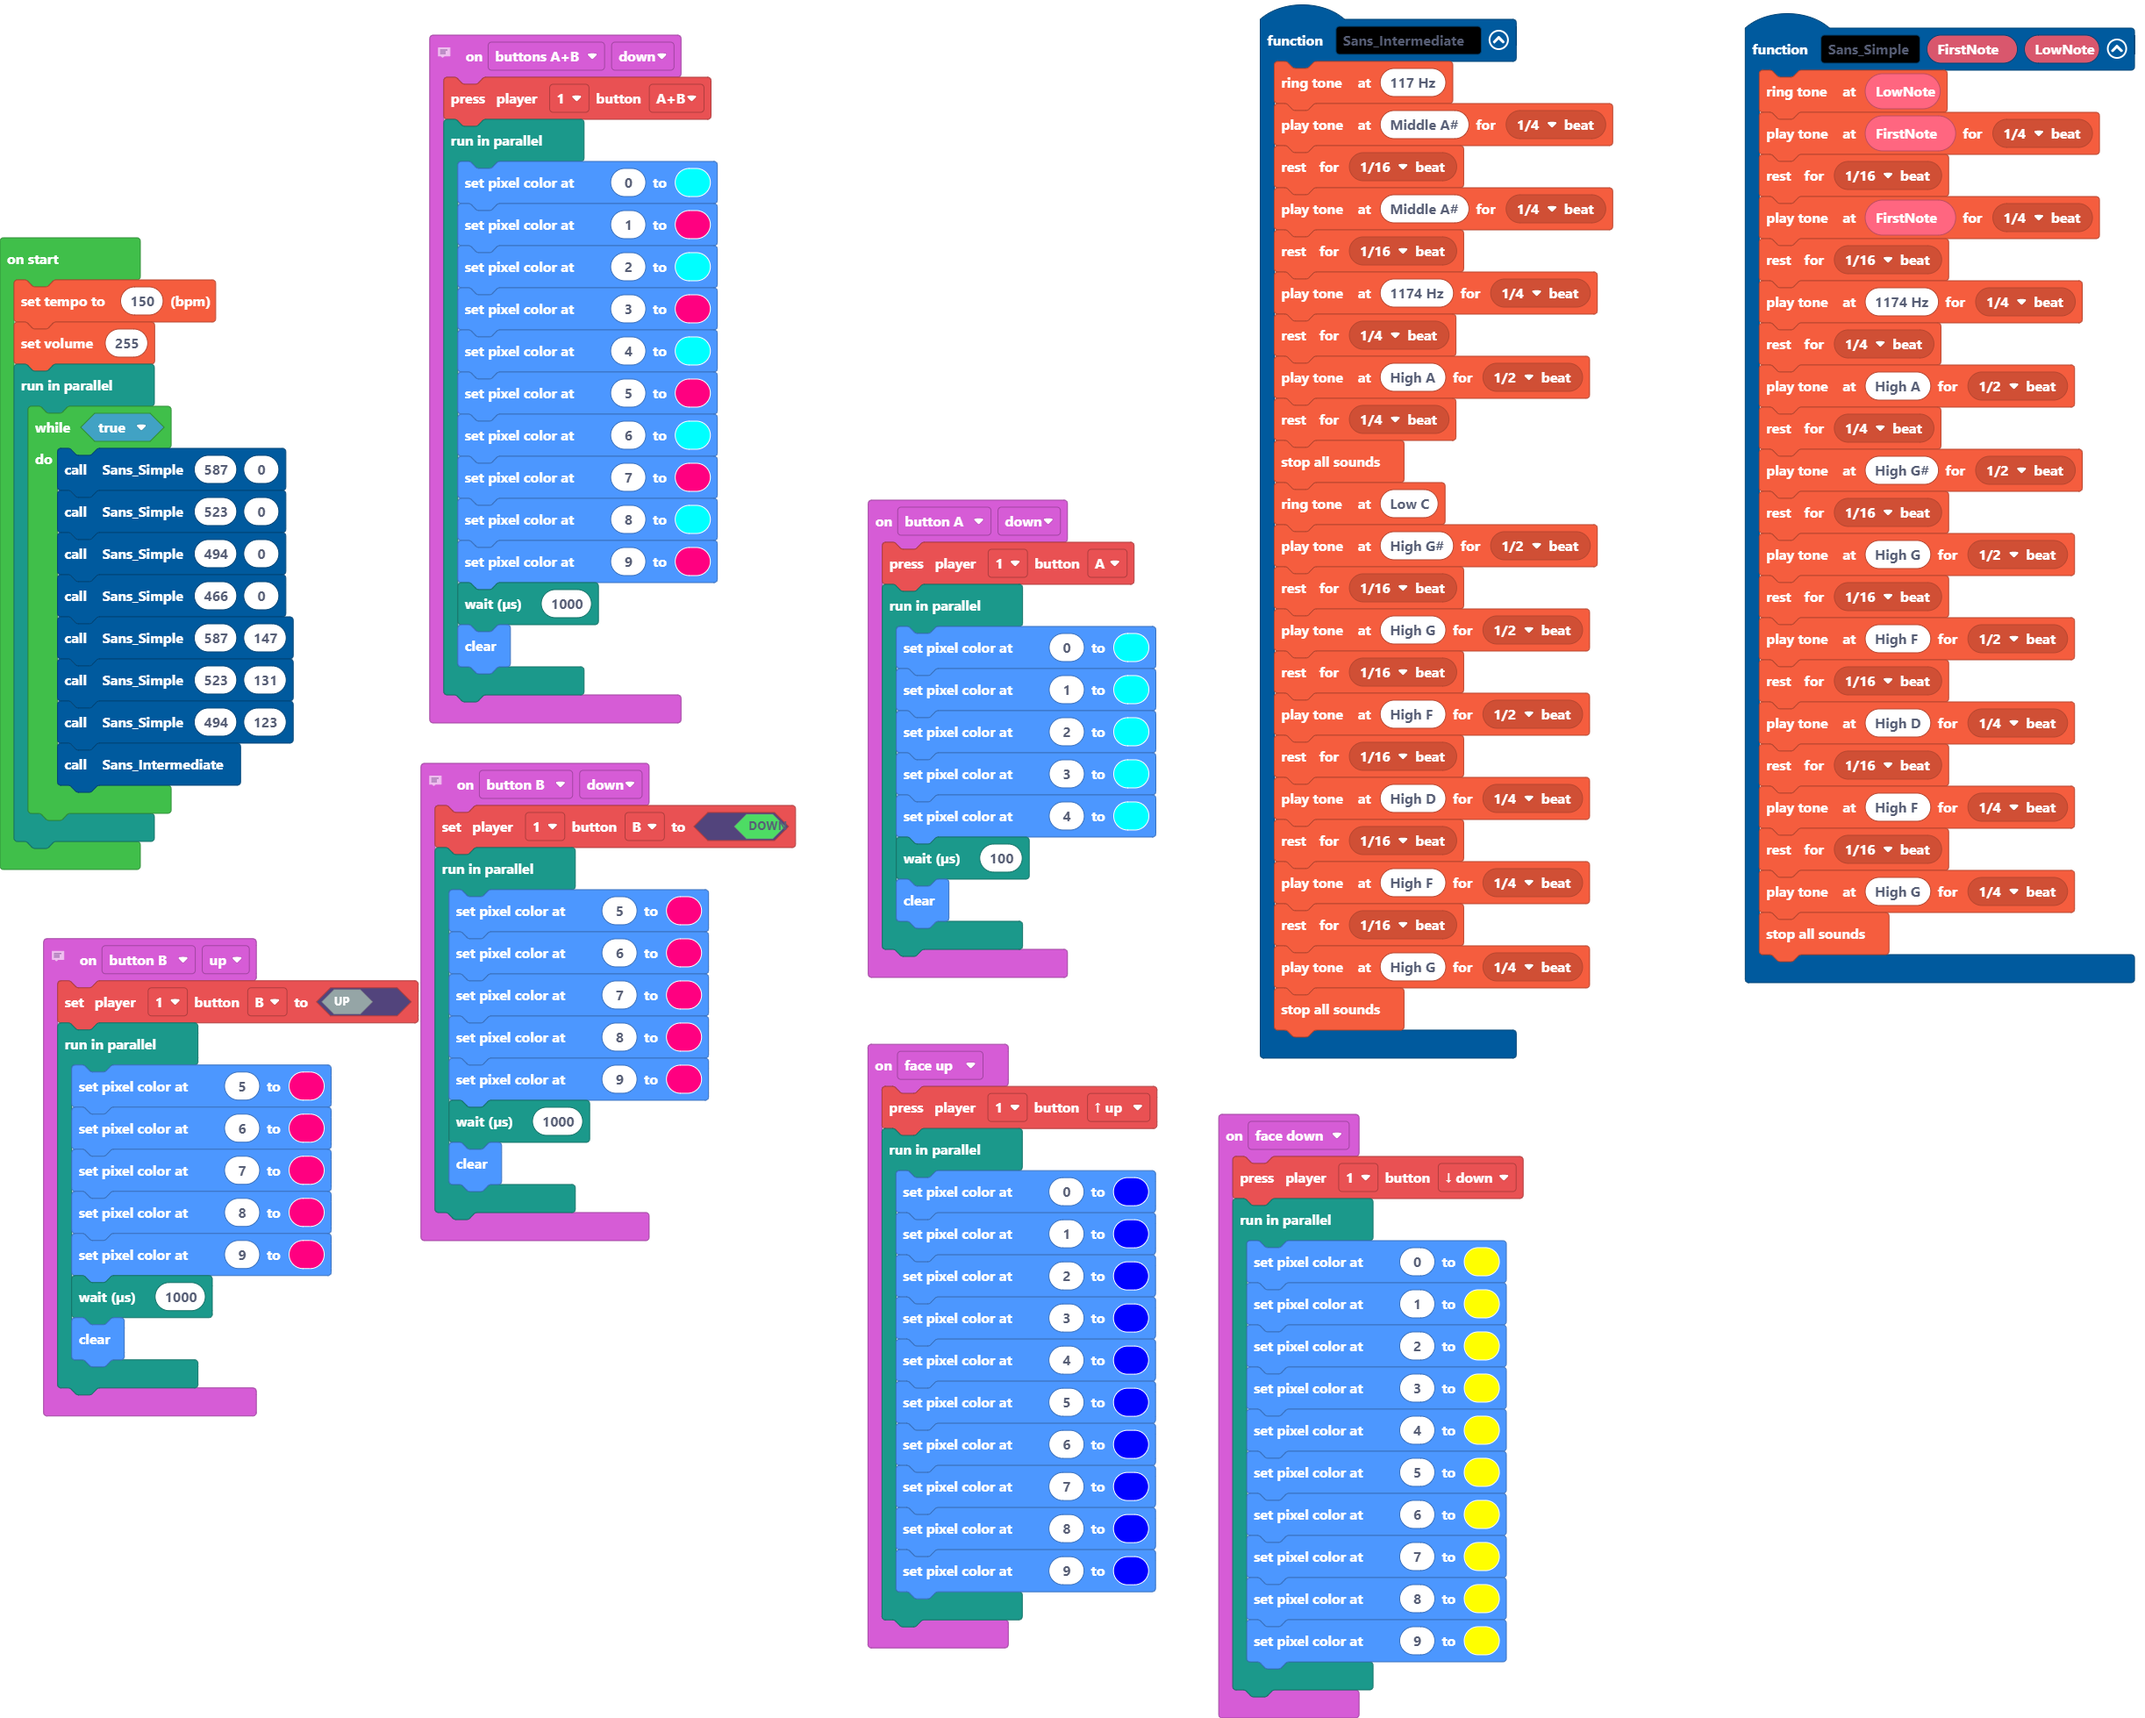
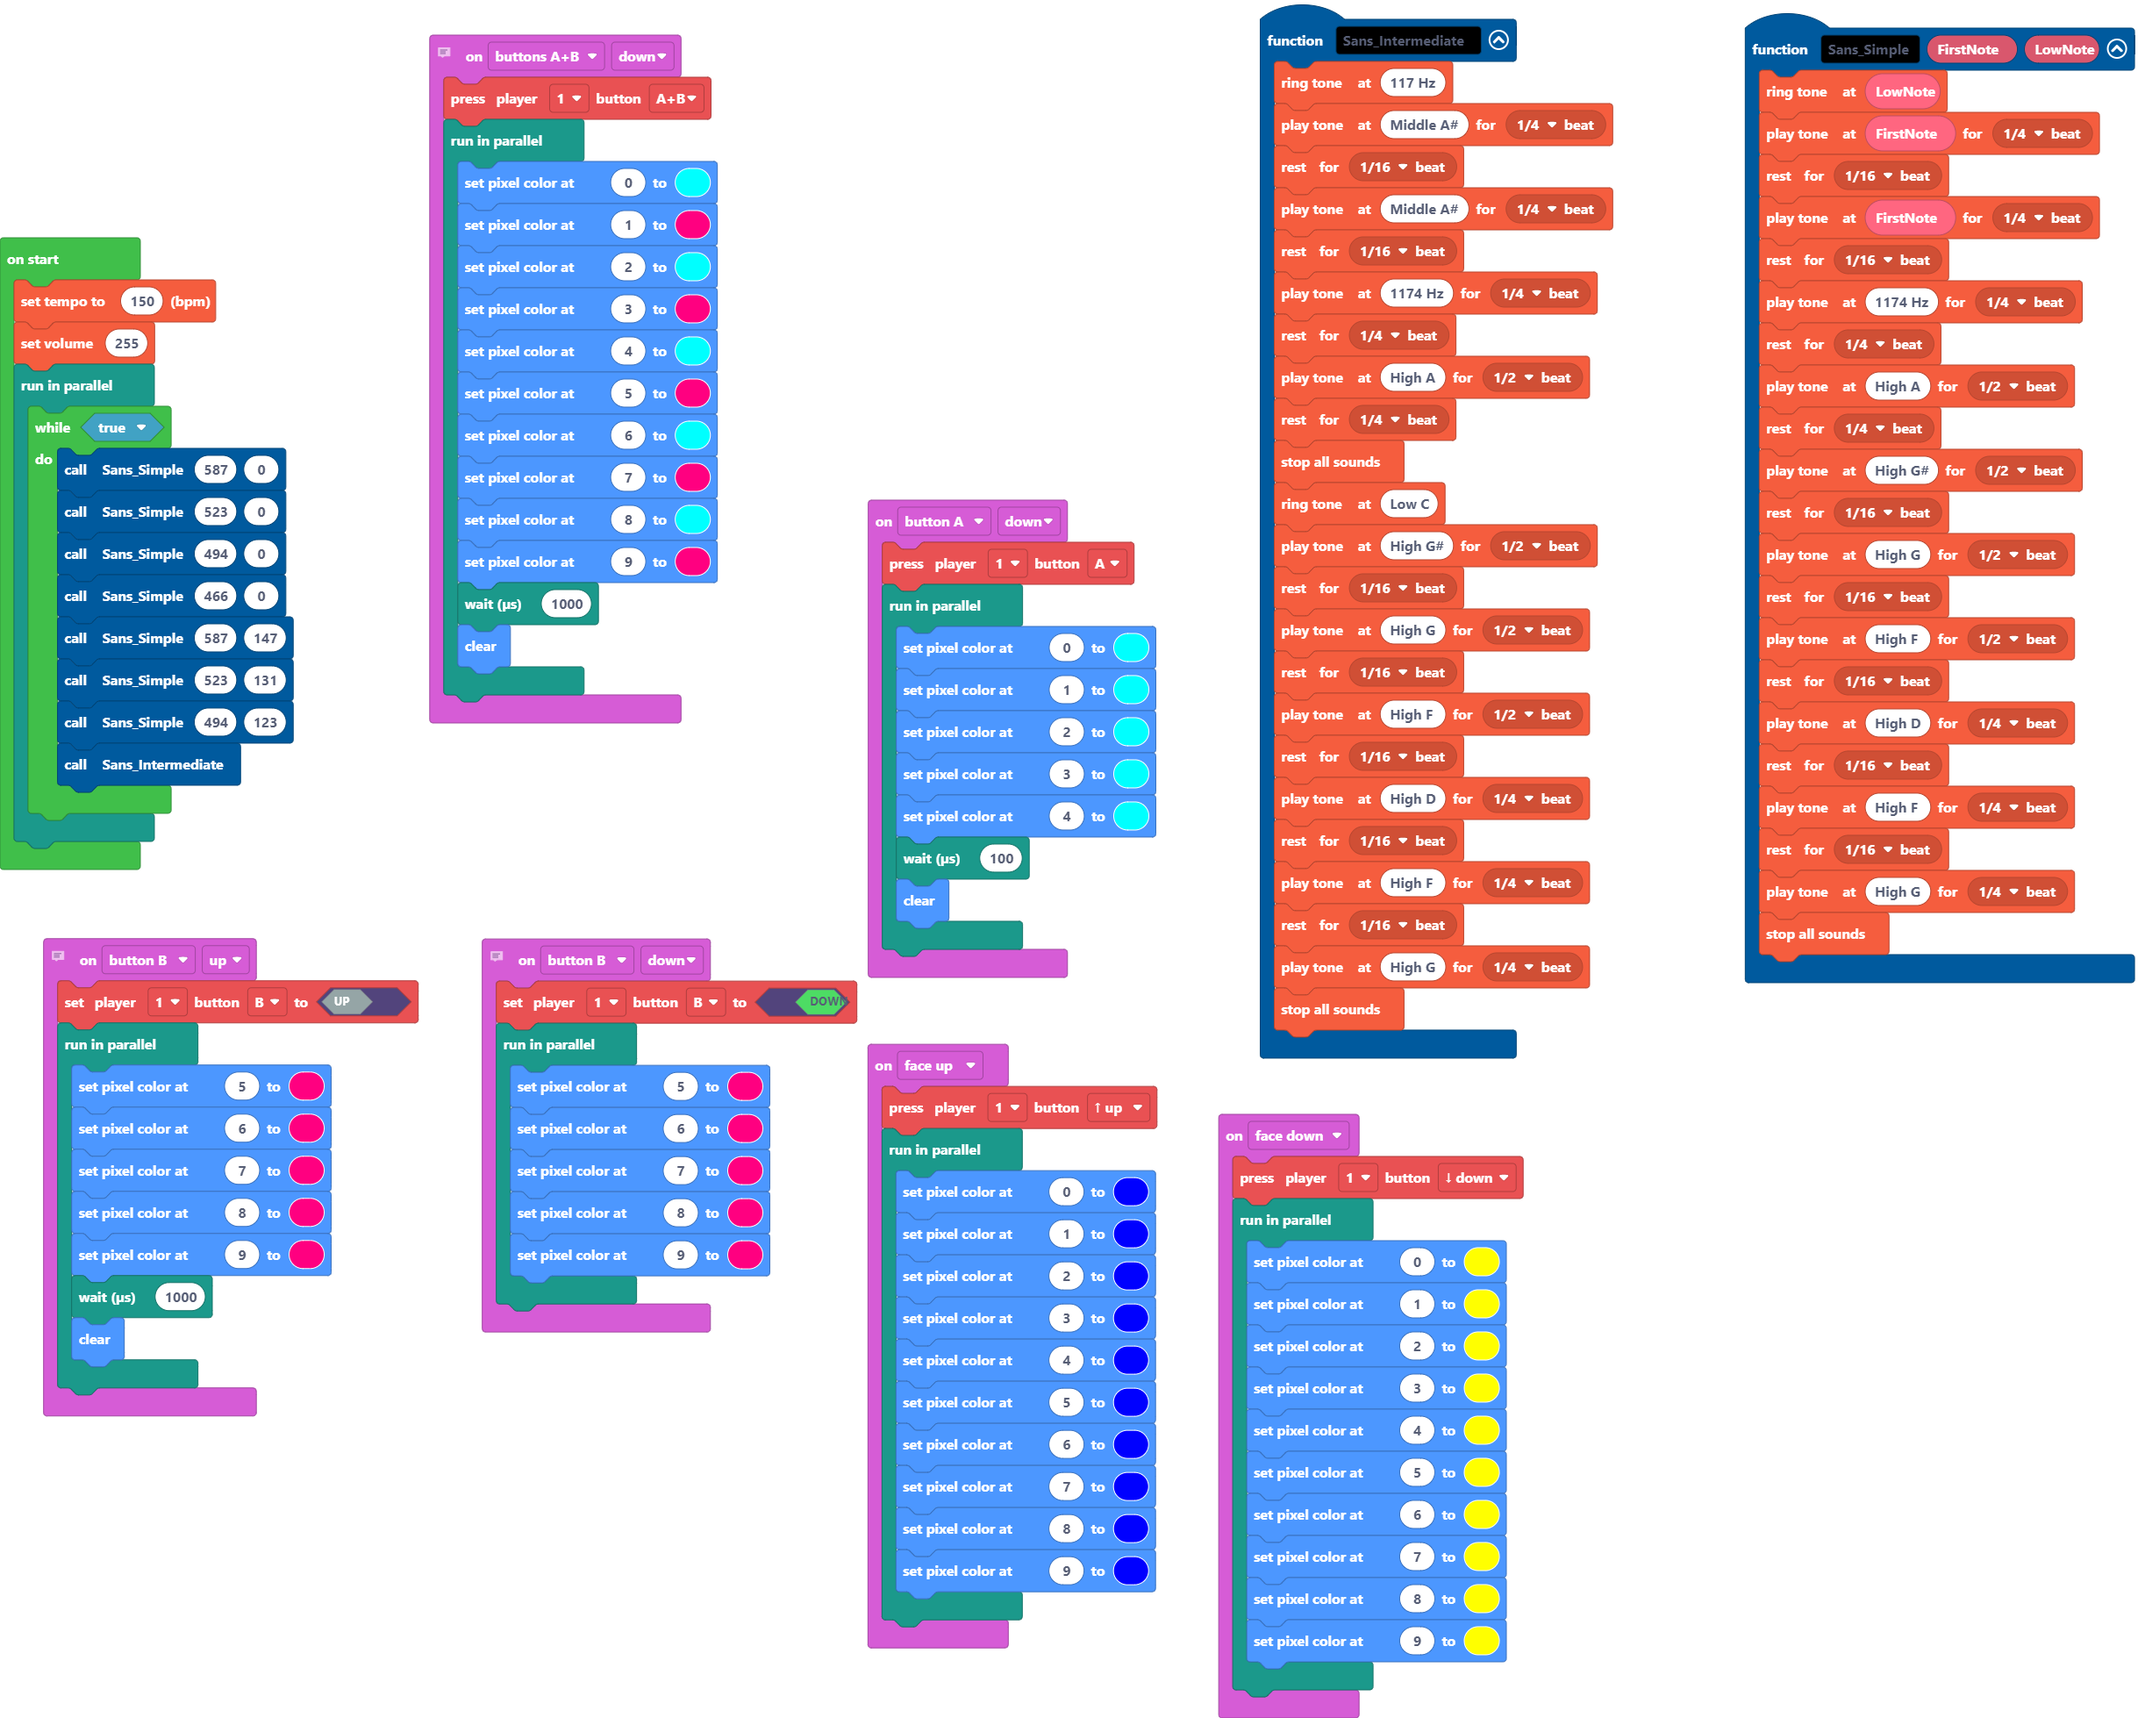
Update main.blocks, main.ts

Changed region(s): [[0.1865, 0.4362, 0.4041, 0.7789]]

diff --git a/main.ts b/main.ts
@@ -37,8 +37,6 @@ input.buttonB.onEvent(ButtonEvent.Down, function () {
         light.setPixelColor(7, 0xff0080)
         light.setPixelColor(8, 0xff0080)
         light.setPixelColor(9, 0xff0080)
-        control.waitMicros(1000)
-        light.clear()
     })
 })
 function Sans_Intermediate () {
